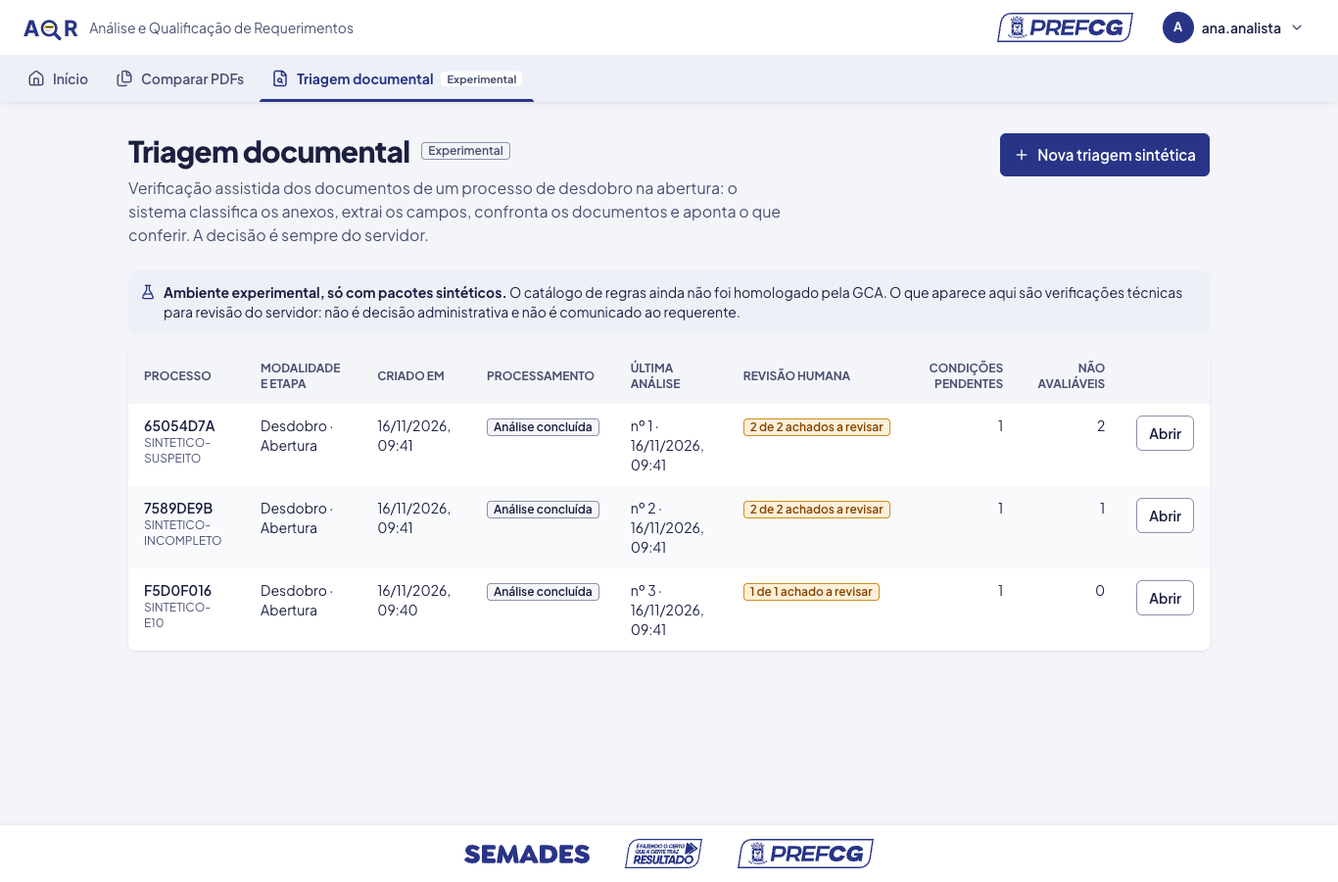
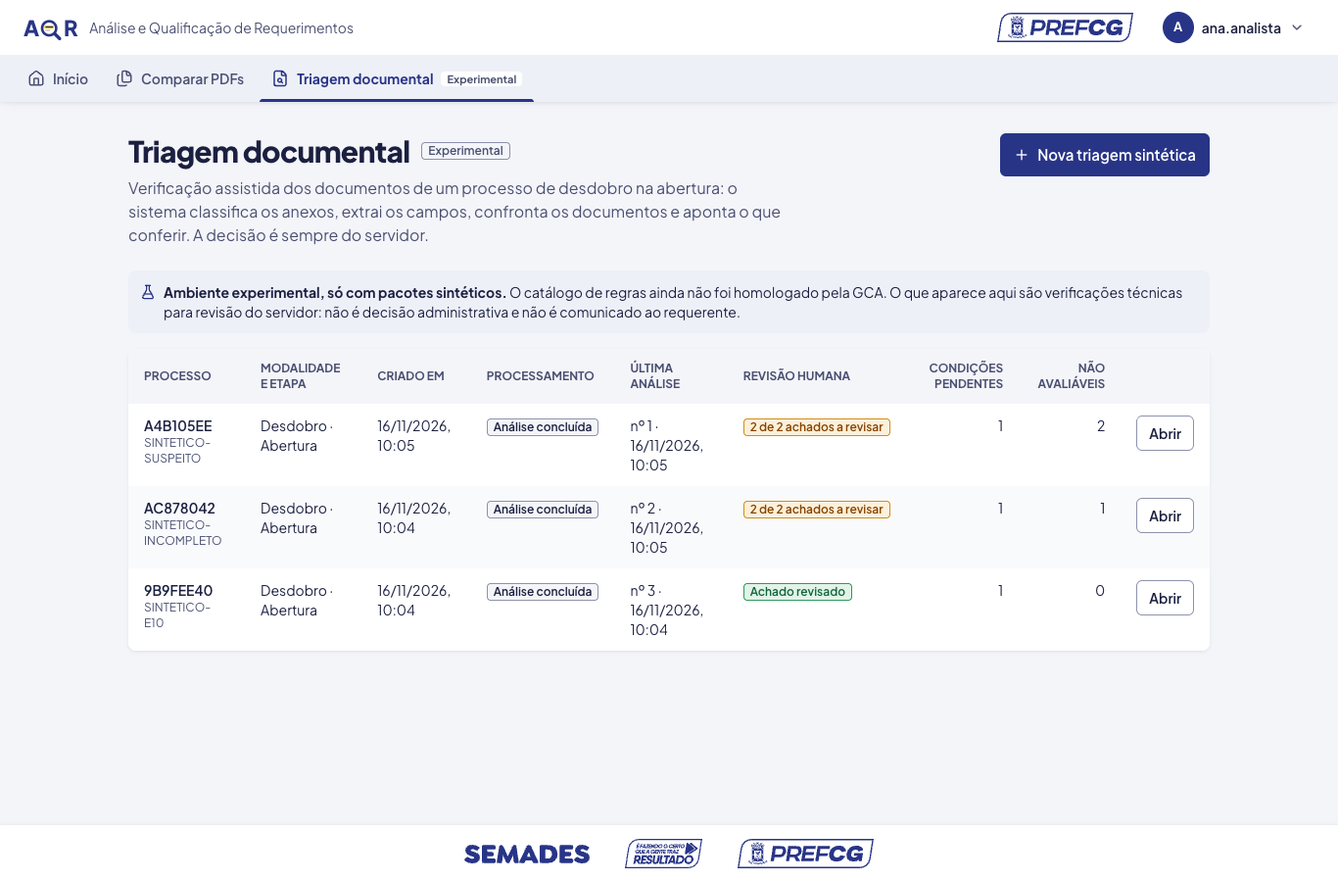
Refaz as capturas da E10 e registra a estabilização final
As capturas da E10 foram refeitas no navegador real, com banco limpo e
o código atual: o anexo isolado mostra o motivo em português, e entram
as telas de revisão em análise anterior (achado igual, decisão mantida)
e de PDFs sintéticos com fontes padrão sem embutir. Nada nos resultados
ou nas evidências foi ajustado para a documentação. Documenta o histórico
de revisão na API, na interface e na arquitetura, com o relatório da
estabilização e o CONTEXTO atualizado.

diff --git a/docs/CONTEXTO.md b/docs/CONTEXTO.md
@@ -59,6 +59,7 @@ Antes de cada commit: `npm run lint`, `npm run typecheck`, `npm test` e `npm run
 
 | Data | Decisão |
 |---|---|
+| 16/11/2026 | **Push da E10 autorizado; estabilização (E10.1) e planejamento da E11 autorizados.** Push só para `dev`. Na estabilização: revisões da análise anterior nunca são transportadas sozinhas (achado modificado pede revisão nova; análises antigas não mudam); acessibilidade sem mudar a identidade visual; fontes do PDF sem CDN; capturas sem alterar resultados. Na E11: **só planejamento**, sem integrar modelo, sem documentos reais, sem API externa, sem ligar em produção; o modelo não cria exigência nem decide, sua saída não é fato sem evidência verificável, o catálogo não muda para acomodar a IA e instruções dentro dos documentos não são seguidas. Commits sem push até nova autorização. |
 | 16/11/2026 | **Push da E9 e E10 autorizados.** Push só para `dev`, sem force, sem release e sem `master`. **E10 (validação integral do MVP):** só desdobro na abertura e só dados sintéticos. Sem IA, sem novas modalidades, sem decisão automática, sem documentos reais e sem ligar em produção. Não alterar catálogo, gabaritos nem interpretações pendentes (contagem da 009, gatilho de GDU da 028). O estado `revisado` não muda de significado no servidor e nunca é aprovação. Havendo divergência entre reprocessamento incremental e integral, prevalece o integral. Não descrever o sistema como pronto para produção institucional. **Sem push dos commits da E10 sem nova autorização.** Escopo em `docs/triagem/escopo-e10.md`. |
 | 12/11/2026 | **Triagem: E9 autorizada** (interface de triagem documental assistida), sem push dos commits da E9 sem nova autorização, sem E10 e sem IA. Só pacotes sintéticos; a declaração da pessoa de que o arquivo é sintético não comprova nada e não substitui as barreiras do ambiente. Nunca marcar o pacote como completo automaticamente. Sem "processo aprovado", "irregular", "documentação reprovada" nem pontuação de aprovação. Não editar resultado de regra nem apagar evidência original; sem recortes permanentes no servidor; sem URLs públicas de documentos; respeitar os limites de upload do servidor. Reprocessamento: preferir recalcular as 19 regras com teste de equivalência. |
 | 11/11/2026 | **Triagem: E4–E6 autorizadas** (classificação, extração e motor determinístico para desdobro na abertura), só na `dev`, **sem push**, sem IA, sem documentos reais e sem chamada externa. Não inventar regra nem exigência; não produzir aprovação, indeferimento, anuência ou arquivamento; ausência de informação não vira irregularidade. Ausência de documento só é conclusiva com pacote confirmado como completo. A AQR-GCA-028 fica pendente até o servidor confirmar o enquadramento: área acima de 2 ha extraída não ativa GDU sozinha. As divergências R1, R6 e R9 ficam documentadas, sem decisão. As regras rodam como verificação técnica experimental (catálogo não homologado). Sem interface definitiva, persistência, API pública de triagem nem E7–E10 nesta execução. |
@@ -114,6 +115,7 @@ Antes de cada commit: `npm run lint`, `npm run typecheck`, `npm test` e `npm run
 
 | Data | O que foi feito | Commit |
 |---|---|---|
+| 16/11/2026 | **Push da E10** (7 commits, `cedb842..9d1487c`), depois de conferir estado, diff, segredos e dados (só corpus fictício) e ausência de implantação. **Estabilização da E10 (E10.1):** (1) revisões ligadas a análises anteriores sem transportar decisões: `historicoRevisao` na API compara o achado com o revisado (versão, resultado, tipo, condições, evidências, valores, texto); achado idêntico pode manter a decisão por revisão nova vinculada (`base_revisao_id`, migração 0009), e achado modificado pede revisão nova (409 `ACHADO_MODIFICADO`). (2) WCAG 2.5.3 no logotipo, na conta e nas opções do início, com o mesmo visual (texto oculto único; link esticado nas opções), com teste de regressão. (3) fontes padrão do pdf.js servidas pelo próprio AQR (`standard-fonts.ts`, sem CDN), validadas com PDFs sintéticos sem fonte embutida. (4) capturas da E10 refeitas com banco limpo. Relatório em `docs/triagem/relatorio-e10.1-estabilizacao-2026-11-16.md`. **Sem push** | ver `git log` |
 | 16/11/2026 | **Triagem, E10.4–E10.7 (motor, navegador, limites e relatório):** `npm run triagem:avaliar` reexecutado nos quatro conjuntos, com relatório idêntico byte a byte ao comitado e gabaritos com o mesmo hash. Novo `npm run triagem:incremental` (`server/triage/evaluation/incremental.ts`): 3.462 reprocessamentos sintéticos, 0 divergências do integral, 0 regras que o incremental puro erraria (`docs/triagem/incremental-x-integral.md`). A auditoria no Chromium achou e corrigiu rolagem horizontal no celular (textos para leitor de tela escapando do contêiner da tabela); contraste sem violações; o único alerta do axe (2.5.3) está no cabeçalho global, anterior à triagem. Os motivos de isolamento ficam em português. Logs do servidor sem dado documental. Telas em `docs/triagem/telas-e10/`; limites em `docs/triagem/limites-mvp.md`; relatório em `docs/triagem/relatorio-e10-2026-11-16.md`. **Sem push** | ver `git log` |
 | 16/11/2026 | **Triagem, E10.2–E10.3 (fluxos e segurança):** `tests/integration/triage-cenarios.test.ts` roda os 20 cenários do MVP contra o servidor real, conferindo com os gabaritos congelados (DSD, VAL, IND, NOV). `tests/integration/triage-seguranca.test.ts` cobre: 401 em todas as rotas, conta inativa, identificadores maliciosos (nunca 500), anexo de outro processo (IDOR), cabeçalhos do conteúdo (`no-store`, `nosniff`, download), limites no servidor e ausência de rede de saída no código da triagem. **Falha corrigida:** o endpoint de conteúdo entregava os bytes de anexo **isolado** (por exemplo, executável com nome `.pdf`) e também antes da inspeção. Agora recusa com 403 `ANEXO_ISOLADO` (registrando `acesso.negado`) ou 409 `SEM_ANALISE`, e a tela nem pede esse conteúdo; há teste de regressão no servidor e na interface | ver `git log` |
 | 16/11/2026 | **Triagem, E10.1 (experiência e semântica):** a navegação e a página inicial mostram a triagem como "Experimental" (não mais "Em breve" ou "Em desenvolvimento"), com texto que diz que é só para ambientes autorizados e dados sintéticos. A tela separa processamento ("Análise concluída"), revisão humana dos achados, condições pendentes e verificações não avaliáveis; `revisado` continua significando só "todos os achados revisados", e a tela avisa quando ainda há condição pendente. O resumo da API ganhou `condicoesPendentes` e `naoAvaliaveis`, e as avaliações ganharam `aplicacao` (pré-condição do catálogo usado na análise), tudo aditivo. As regras têm título e explicação legíveis (`src/features/triage/model/regras.ts`), com o ID, o título do catálogo, a versão, a condição e a fonte preservados; o catálogo não mudou. Nova ação "Salvar correção e reprocessar" (salva, reprocessa com a versão devolvida, diz quando a correção ficou salva mas a análise não), "Só salvar a correção" mantida, e proteção contra clique repetido em todas as ações | ver `git log` |
@@ -250,7 +252,7 @@ Antes de cada commit: `npm run lint`, `npm run typecheck`, `npm test` e `npm run
 - **Verificação visual do visualizador real:** os dois PDFs de teste foram comparados no Chromium, com 18 diferenças e destaques visíveis. Ainda falta avaliar a precisão e a leitura em documentos institucionais de formatos variados e conferir o visualizador no celular.
 - **Aprovação visual da administração (D4):** o responsável revisa as capturas em `docs/capturas-administracao/` e a interface no navegador; ajustes pedidos entram como novos commits.
 - **Administração em produção:** só depois da autenticação real (passos em `docs/arquitetura.md`). Hoje o servidor recusa `ADMIN_API_MODE=dev` em produção.
-- **Triagem documental:** E0–E9 concluídas (E7 persistência, E8 API, E9 interface; só pacotes sintéticos). E9 enviada à `dev`. **E10 concluída** (`docs/triagem/relatorio-e10-2026-11-16.md`); commits da E10 **sem push** até nova autorização; E11 (IA documental) só com nova instrução. Riscos e pendências do MVP em `docs/triagem/limites-mvp.md` e no relatório (seções 10 e 11): instância única e fila em memória, envio lido em memória, chave fora de cofre, revisões presas à análise (achado volta a "a revisar" depois de reprocessar), fontes padrão do PDF.js, alerta 2.5.3 no cabeçalho global. Pontos de uso da E9 em aberto (ver relatório da E9): selo "Em breve" da triagem na navegação e "Em desenvolvimento" na página inicial, situação "Revisado" com verificações ainda dependentes de confirmação, ausência de aviso ao sair com formulário preenchido. Bloqueio para documentos reais: política de retenção e de acesso homologada, gestão da chave do conteúdo fora do servidor (cofre), backup e expurgo do banco. Antes de uso real: homologação das regras pela GCA; respostas às perguntas 2, 5, 8 e 9 do dossiê e às divergências R1, R6 e R9; tabela de formatos de folha do TR 001 e do TR 003 (a regra 023 tem só a do TR 002); forma de contagem dos 30 dias da regra 009 (hoje sempre alerta para conferência); validação com documentos reais anonimizados, se autorizada. Limitações da E4 e da E5 em `docs/triagem/e4-e6.md` (sinais e rótulos não vêm dos modelos oficiais; "outro" não é afirmado; OCR fraco em digitalização ruidosa; rótulo desconhecido dá "não encontrado"). Pendências institucionais em `docs/triagem/reconciliacao-catalogo-dossie.md` (versão do catálogo, homologação, condições, pacote parcial, perguntas 2, 5, 8 e 9 do dossiê).
+- **Triagem documental:** E0–E9 concluídas (E7 persistência, E8 API, E9 interface; só pacotes sintéticos). E9 enviada à `dev`. **E10 concluída** (`docs/triagem/relatorio-e10-2026-11-16.md`); commits da E10 **sem push** até nova autorização; E11 (IA documental) só com nova instrução. Riscos e pendências do MVP em `docs/triagem/limites-mvp.md` e no relatório (seções 10 e 11): instância única e fila em memória, envio lido em memória, chave fora de cofre, revisões presas à análise (a estabilização mostra a relação e permite manter a decisão de achado idêntico, mas a revisão continua por análise). Os riscos de fontes do PDF.js e do alerta 2.5.3 foram resolvidos na estabilização da E10. Pontos de uso da E9 em aberto (ver relatório da E9): selo "Em breve" da triagem na navegação e "Em desenvolvimento" na página inicial, situação "Revisado" com verificações ainda dependentes de confirmação, ausência de aviso ao sair com formulário preenchido. Bloqueio para documentos reais: política de retenção e de acesso homologada, gestão da chave do conteúdo fora do servidor (cofre), backup e expurgo do banco. Antes de uso real: homologação das regras pela GCA; respostas às perguntas 2, 5, 8 e 9 do dossiê e às divergências R1, R6 e R9; tabela de formatos de folha do TR 001 e do TR 003 (a regra 023 tem só a do TR 002); forma de contagem dos 30 dias da regra 009 (hoje sempre alerta para conferência); validação com documentos reais anonimizados, se autorizada. Limitações da E4 e da E5 em `docs/triagem/e4-e6.md` (sinais e rótulos não vêm dos modelos oficiais; "outro" não é afirmado; OCR fraco em digitalização ruidosa; rótulo desconhecido dá "não encontrado"). Pendências institucionais em `docs/triagem/reconciliacao-catalogo-dossie.md` (versão do catálogo, homologação, condições, pacote parcial, perguntas 2, 5, 8 e 9 do dossiê).
 - **Futuro: site de apresentação do AQR (ideia do responsável, 13/10/2026):** uma página que explica o AQR (o que é, como funciona a comparação, os tipos de diferença, a triagem que vem depois e o acesso). Inspiração: o layout de teste em `~/Códigos/teste/teste-c`, com a identidade do AQR (tokens, Plus Jakarta Sans, logo Lente Q, marcas institucionais no rodapé) e ilustrações do produto no lugar de fotos. Um esboço foi feito em 13/10/2026 numa cópia fora do projeto e descartado a pedido; não há código guardado. Só começar com pedido explícito.
 - **Login:** a autenticação real (credenciais SEMADES) depende de backend e de pedido explícito. Depois, implementar no app (login visual, sem autenticação real). A escolhida entra no app apenas como tela visual: sem autenticação real até haver backend e pedido explícito.
 - **Validação institucional:** 12 pontos em `docs/identidade-visual.md`. Os principais são o uso em sistema web, o tamanho mínimo digital, a posição da marca, o ajuste de cor e a logo do AQR ao lado do PREFCG.

diff --git a/docs/triagem/relatorio-e10.1-estabilizacao-2026-11-16.md b/docs/triagem/relatorio-e10.1-estabilizacao-2026-11-16.md
@@ -1,0 +1,101 @@
+# Estabilização final da E10 (E10.1)
+
+**Data:** 16/11/2026 · **Branch:** `dev` · **Push:** só o da E10 (`cedb842..9d1487c`). Os commits da estabilização estão **só locais**, aguardando autorização.
+
+Resolve os quatro pontos de qualidade deixados pela E10 (relatório da E10, seção 10, itens 4, 5 e 6, e a captura 17).
+
+## 1. Histórico de revisão depois do reprocessamento
+
+**Problema:** a revisão humana é presa à análise. Depois de reprocessar, um achado já revisado voltava a aparecer só como "a revisar", sem relação visível com a decisão anterior.
+
+**Solução:**
+
+- Cada avaliação da API traz `historicoRevisao`: a revisão mais recente da mesma regra numa análise anterior, comparada com a avaliação atual.
+- A comparação (`server/triage/store/correspondencia.ts`) considera versão da regra, resultado, tipo do achado, condições pendentes, evidências (anexo, hash, página, trecho, região), valores comparados e texto do achado.
+- **Equivalente:** nada disso mudou. A tela mostra a decisão anterior e oferece **"Manter a decisão anterior"**. Isso é uma **revisão nova**, feita pela pessoa, com autor e data, vinculada à original (`base_revisao_id`, migração 0009). O servidor só aceita o vínculo se a decisão for a mesma e o achado continuar idêntico.
+- **Modificado:** a tela diz o que mudou, avisa que a decisão anterior não vale para o resultado atual e pede revisão nova. Se alguém tentar manter a decisão mesmo assim, recebe 409 `ACHADO_MODIFICADO`.
+- **Nada é transportado sozinho.** A análise nova continua "aguardando revisão" até a pessoa agir. Análises e revisões antigas não mudam, e as tabelas continuam só de inserção.
+
+**Testes:**
+
+- **Serviço:** achado equivalente com decisão mantida; revisões da análise 1 intactas; decisão diferente recusada como "mantida"; achado que continua achado com outros valores recusado.
+- **Rota real:** histórico na API; análise 1 sem histórico; vínculo gravado.
+- **Interface:** equivalente com o botão, modificado sem o botão, administrador só vê.
+
+## 2. Acessibilidade (WCAG 2.5.3, rótulo no nome)
+
+**Problema:** no navegador real, o `axe` apontava que o nome acessível não continha o texto visível no link do logotipo, no botão da conta e nas opções da página inicial.
+
+**Solução, sem mudança visual:**
+
+- **Logotipo e conta:** um único texto oculto contém o que aparece ("AQR Análise e Qualificação de Requerimentos — página inicial"; "Conta de ana.analista"). As partes visíveis ficam `aria-hidden`.
+- **Opções da página inicial:** o link envolve só o título e o selo ("Triagem documental Experimental"). A descrição sai do link e continua como `aria-describedby`. O cartão inteiro segue clicável pelo link esticado, e o foco aparece no cartão.
+
+**Resultado:**
+
+- `axe` no Chromium, em início, lista, envio, processo, painel de evidência e celular: **zero violações**, contraste incluído.
+- O teste de regressão (`src/test/a11y.test.tsx`) roda a regra `label-content-name-mismatch` e **falha com a marcação antiga**.
+
+## 3. Fontes padrão do pdf.js
+
+**Problema:** PDFs com as fontes-base sem embutir (Helvetica, Times, Courier, Symbol) eram desenhados com fonte substituta, e o console avisava que faltava `standardFontDataUrl`.
+
+**Solução:**
+
+- `standard-fonts.ts` é uma `BinaryDataFactory` do pdf.js que entrega os 14 arquivos de `pdfjs-dist/standard_fonts`.
+- O Vite os empacota com hash, na mesma origem (816 KB), e eles só são baixados quando um PDF pede.
+- Não há CDN, nem dependência nova, nem fontes do sistema.
+- Licenças: as dos próprios arquivos (`LICENSE_FOXIT` e `LICENSE_LIBERATION`, distribuídos com o `pdfjs-dist`).
+
+**Validação:**
+
+- **Testes unitários:** lista das fontes, carga da mesma origem e recusa de CMap, wasm e nomes desconhecidos.
+- **No Chromium:** PDFs sintéticos com Helvetica, Helvetica-Bold, Times-Roman, Times-Italic, Courier, Courier-Bold e Symbol sem fonte embutida, e a ART sintética do corpus (Helvetica).
+  - Nenhum aviso de fonte.
+  - As fontes foram pedidas só à própria origem, sem nenhum pedido externo.
+  - O desenho saiu certo (serifa, monoespaçada, letras gregas).
+  - A comparação continua apontando as 5 diferenças.
+  - O destaque da evidência continua alinhado (capturas 26 e 27).
+
+## 4. Capturas
+
+Todas as capturas de `docs/triagem/telas-e10/` foram **refeitas com banco limpo e o código atual**:
+
+- 17: anexo isolado com o motivo em português.
+- 23 e 24: revisão em análise anterior e decisão mantida.
+- 26 e 27: fontes padrão.
+
+Os resultados e as evidências mostrados são os que o sistema produziu. Nada foi ajustado para a documentação.
+
+Auditoria no navegador repetida:
+
+- nenhum erro de página;
+- nenhuma URL de objeto pendente;
+- 390 px no celular, sem rolagem lateral;
+- nenhum botão de ação para o administrador;
+- o único erro no console é o 409 provocado de propósito no teste de conflito.
+
+## 5. Verificação
+
+| Verificação | Resultado |
+|---|---|
+| `npm run lint` | sem avisos |
+| `npm run typecheck` | sem erros |
+| `npm test` | **78 arquivos, 700 testes passando, 4 pulados** (Ghostscript, como antes) |
+| `npm run build` | ok |
+
+**Testes antigos com expectativa ajustada,** por mudança intencional:
+
+- O inventário de migrações (`migrate.test.ts`) passa a incluir a 0009.
+- O nome do link do logotipo em `navigation.test.tsx` agora é "AQR Análise e Qualificação de Requerimentos — página inicial".
+
+As respostas gravadas de teste ganharam `baseRevisaoId: null` nas revisões, como o servidor responde agora.
+
+## 6. Commits (locais, sem push)
+
+| Commit | Entrega |
+|---|---|
+| `e037a8f` | Histórico de revisão entre análises, sem transportar decisões |
+| `eaf8f70` | Nome acessível com o texto visível (WCAG 2.5.3) |
+| `33d8b7d` | Fontes padrão do pdf.js servidas pelo AQR |
+| *(seguinte)* | Capturas refeitas, documentação e este relatório |

diff --git a/docs/triagem/api-triagem.md b/docs/triagem/api-triagem.md
@@ -41,11 +41,11 @@ O processo de outra pessoa responde 404, sem revelar que existe, e a tentativa f
 | `GET /api/triagens?limit&offset` | Processos visíveis à pessoa, com modalidade e etapa atuais, última análise (inclusive interrompida ou com falha), achados, achados sem revisão e, desde a E10, `condicoesPendentes` (avaliações `condicao-pendente`, como a 028) e `naoAvaliaveis`. A `situacao` `revisado` quer dizer só que todos os achados da análise atual têm revisão: não encerra o processo nem resolve condição pendente. | 200 |
 | `GET /api/triagens/:id` | Processo, enquadramento atual (declarado ou confirmado), todas as análises (versão do motor, catálogo e hashes), confirmações e revisões. | 200, 404 |
 | `GET /api/triagens/:id/anexos?analise=N` | Metadados, tipo real, integridade, isolamento e classificação com justificativa. | 200, 404 |
-| `GET /api/triagens/:id/avaliacoes?analise=N` | As 19 avaliações com evidências, quadro de valores, fundamentos, limitações, revisões e se foi recalculada ou reaproveitada, e `aplicacao` (pré-condição da regra no catálogo, quando a análise usou o mesmo catálogo carregado). Sem `analise`, a atual. | 200, 404, 409 |
+| `GET /api/triagens/:id/avaliacoes?analise=N` | As 19 avaliações com evidências, quadro de valores, fundamentos, limitações, revisões e se foi recalculada ou reaproveitada, e `aplicacao` (pré-condição da regra no catálogo, quando a análise usou o mesmo catálogo carregado). Desde a estabilização da E10, também `historicoRevisao`, quando há revisão humana da mesma regra numa análise anterior. O campo traz `situacao` (`equivalente` ou `modificado`), `analise`, `diferencas` (versão da regra, resultado, tipo, condições, evidências, valores, texto) e as revisões daquela análise. Nada é transportado: a revisão continua presa à análise em que foi feita. Sem `analise`, a atual. | 200, 404, 409 |
 | `GET /api/triagens/:id/campos?analise=N` | Campos extraídos (ids para correção). | 200, 404, 409 |
 | `GET /api/triagens/:id/anexos/:anexoId/conteudo` | Conteúdo **sintético** decifrado, sempre como download (`application/octet-stream`, `attachment`, `no-store`, `nosniff`). Expurgado ou não armazenado: 404. **Desde a E10:** anexo isolado na inspeção nunca é entregue (403 `ANEXO_ISOLADO`, registrado como `acesso.negado`) e nada é entregue antes de a análise inspecionar o anexo (409 `SEM_ANALISE`). | 200, 403, 404, 409 |
 | `POST /api/triagens/:id/condicoes` | `{versaoEsperada, tipo: modalidade\|etapa\|integridade\|condicao, valor, condicao?, justificativa}`. Integridade exige justificativa (≥ 5 caracteres): a confirmação de pacote completo é ação explícita e auditada. | 201, 400, 403, 404, 409 |
-| `POST /api/triagens/:id/revisoes` | `{versaoEsperada, decisao: confirmado\|descartado\|encaminhado, regraId, justificativa}` ou `{versaoEsperada, decisao: corrigido, campoId, novoValor, justificativa}`. Descartar e corrigir exigem justificativa; só achado é confirmado ou descartado. | 201, 400, 403, 404, 409 |
+| `POST /api/triagens/:id/revisoes` | `{versaoEsperada, decisao: confirmado\|descartado\|encaminhado, regraId, justificativa}` ou `{versaoEsperada, decisao: corrigido, campoId, novoValor, justificativa}`. Descartar e corrigir exigem justificativa; só achado é confirmado ou descartado. `baseRevisaoId` (opcional, em confirmar, descartar ou encaminhar) mantém a decisão de uma análise anterior. A decisão precisa ser a mesma e o achado idêntico; se o achado mudou, a resposta é 409 `ACHADO_MODIFICADO`. A revisão nova é gravada com autor e data e com o vínculo à original. As revisões de saída trazem `baseRevisaoId` (nulo quando não mantêm decisão). | 201, 400, 403, 404, 409 |
 | `POST /api/triagens/:id/reprocessar` | `{versaoEsperada}`. Com análise concluída: nova análise na hora, com as correções e as confirmações. As **19 regras rodam sempre por inteiro**; a resposta lista as `alteradas` (resultado diferente da análise anterior), e as idênticas ficam marcadas como reaproveitadas, com referência. Sem análise concluída (falhou ou interrompida): retomada na fila a partir do conteúdo cifrado. | 201, 202, 404, 409, 503 |
 
 Toda entrada e toda saída passam por esquemas zod (`shared/contracts/triage-api.ts`). Corpo com campo fora do contrato é recusado (400): o cliente não consegue enviar "resultado" de regra. Alterações levam `versaoEsperada`, e versão desatualizada recebe 409.

diff --git a/docs/triagem/relatorio-e10-2026-11-16.md b/docs/triagem/relatorio-e10-2026-11-16.md
@@ -219,7 +219,7 @@ As primeiras execuções continuam registradas em `avaliacao-independente-primei
 
 ## 9. Capturas de tela
 
-Ficam em `docs/triagem/telas-e10/`. Foram feitas no Chromium, com o servidor em modo experimental e só pacotes sintéticos (DSD-16, DSD-15, DSD-37).
+Ficam em `docs/triagem/telas-e10/`. Foram feitas no Chromium, com o servidor em modo experimental e só pacotes sintéticos (DSD-16, DSD-15, DSD-37). **Todas foram refeitas na estabilização da E10, com banco limpo e o código atual** (ver `relatorio-e10.1-estabilizacao-2026-11-16.md`).
 
 | # | Tela |
 |---|---|
@@ -239,11 +239,15 @@ Ficam em `docs/triagem/telas-e10/`. Foram feitas no Chromium, com o servidor em 
 | 14 | Conflito 409 entre duas abas |
 | 15 | Pacote incompleto: verificação inconclusiva |
 | 16 | Completude confirmada: "Não localizado nos anexos examinados" |
-| 17 | Anexo isolado (captura anterior à tradução do motivo, que agora aparece como "conteúdo executável") |
+| 17 | Anexo isolado, com o motivo em português ("conteúdo executável") |
 | 19 | Lista com processos |
 | 20 | Celular, 390 px, sem rolagem lateral |
 | 21 | Administrador: só consulta, sem botões de ação |
 | 22 | Administrador: sem formulário de envio |
+| 23 | Achado igual ao revisado numa análise anterior, com "Manter a decisão anterior" (estabilização) |
+| 24 | Decisão mantida por revisão nova, vinculada à original (estabilização) |
+| 26 | Comparador com PDFs sintéticos em Helvetica, Times, Courier e Symbol sem fonte embutida (estabilização) |
+| 27 | Evidência na ART sintética, com Helvetica não embutida, desenhada com a fonte padrão local (estabilização) |
 
 ## 10. Riscos técnicos restantes
 

diff --git a/docs/arquitetura.md b/docs/arquitetura.md
@@ -213,6 +213,12 @@ Telas em `src/pages/TriagePage.tsx`, `TriageNewPage.tsx` e `TriageProcessPage.ts
 - **Testes de ponta a ponta:** `tests/integration/triage-cenarios.test.ts` (20 cenários, gabaritos congelados) e `tests/integration/triage-seguranca.test.ts`.
 - **Limites operacionais:** `docs/triagem/limites-mvp.md`.
 
+### Estabilização da E10
+
+- **Revisões entre análises:** `server/triage/store/correspondencia.ts` compara um achado com o da análise em que houve revisão. A migração `0009_revisao_mantida` acrescenta `triagem_revisoes.base_revisao_id`, e a tabela continua só de inserção. Nenhuma decisão passa sozinha para uma análise nova.
+- **Fontes padrão do pdf.js:** `src/features/comparison/viewer/pdf/standard-fonts.ts` é uma `BinaryDataFactory` que entrega os arquivos de `pdfjs-dist/standard_fonts`, empacotados pelo Vite (mesma origem, com hash, carregados sob demanda). CMaps e wasm continuam sem fonte configurada; o pdf.js segue pelo caminho em JS, como antes.
+- **Nome acessível no cabeçalho e no início (WCAG 2.5.3):** um texto oculto único contém o texto visível. As opções da página inicial usam link esticado (título e selo no link; descrição fora dele, como `aria-describedby`).
+
 ### Como entrará a autenticação real
 
 Nada nas rotas, nas regras de `AccountService` ou nas telas muda. O que trocar:

diff --git a/docs/triagem/interface-triagem.md b/docs/triagem/interface-triagem.md
@@ -19,6 +19,14 @@ A interface do navegador para a triagem experimental de **desdobro (D) na abertu
 - **Anexo isolado:** o conteúdo não é pedido e o painel explica o motivo, em português.
 - **Celular:** os contêineres das tabelas são posicionados (`relative`), e a página não rola na horizontal em 390 px.
 
+## Estabilização da E10
+
+- **Revisão depois do reprocessamento:** `RevisaoAnterior`, em `components/Verificacoes.tsx`, mostra a revisão da mesma regra numa análise anterior.
+  - **Achado idêntico:** "Este achado é igual ao revisado na análise nº N", com o botão "Manter a decisão anterior". O botão registra uma revisão nova, vinculada à original pelo `baseRevisaoId`.
+  - **Achado modificado:** "Este item mudou desde a revisão…", com a lista do que mudou e o pedido de revisão nova.
+  - A lista das verificações marca "a revisar (igual à nº N)". O administrador vê a relação, mas não mantém decisão.
+- **Fontes dos PDFs:** o visualizador (comparação e triagem) recebe as fontes padrão do pdf.js do próprio AQR (`viewer/pdf/standard-fonts.ts`).
+
 ## Quem decide se a triagem aparece
 
 O servidor decide. `TriagemSessionProvider` (`src/features/triage/session/triage-session.tsx`) consulta `GET /api/triagem/status` e expõe um destes estados:
